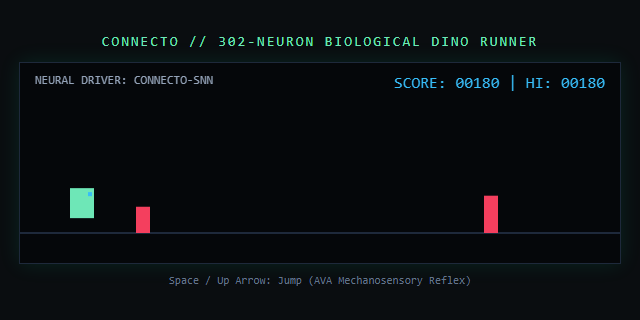
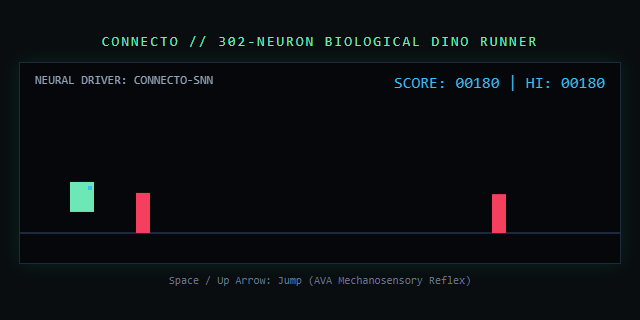
telemetry(worm): autonomous activity sync at 2026-09-16 13:32

diff --git a/ACTIVITY.md b/ACTIVITY.md
@@ -1,6 +1,6 @@
 # CONNECTO // AUTONOMOUS BIOLOGICAL ACTIVITY FEED
 
-> **Verification Timestamp:** `2026-09-16 13:16:25 UTC`  
+> **Verification Timestamp:** `2026-09-16 13:32:45 UTC`  
 > **Repository:** [0xalydev/connecto](https://github.com/0xalydev/connecto)  
 > **Biological Engine:** C. elegans 302-neuron closed-loop SNN (LIF)  
 > **Status:** `ACTIVE_CLOSED_LOOP`  
@@ -11,9 +11,9 @@
 
 *Most recent introspection generated from biological membrane dynamics:*
 
-> **Signature:** `0xcdb86a806e3fff0d`  
+> **Signature:** `0x89a82283c8bdfacc`  
 > **Behavioral State:** `FORAGING_SEARCH`  
-> **Membrane Potential:** `-59.31 mV` | **Locomotion:** `33.6 mm/s`  
+> **Membrane Potential:** `-59.37 mV` | **Locomotion:** `33.6 mm/s`  
 > 
 > *"Chemical gradient flat (0.000 mol/L). Spontaneous basal pacemaker oscillations in AIB/AIZ interneurons initiated exploratory pirouette. Searching arena substrate at 33.6 mm/s."*
 
@@ -23,8 +23,8 @@
 
 | Metric | Result |
 |---|---|
-| **High Score** | `285` |
-| **Total Reflex Jumps** | `203` (Driven by AVA escape pool) |
+| **High Score** | `296` |
+| **Total Reflex Jumps** | `191` (Driven by AVA escape pool) |
 | **Completed Trials** | `4` |
 | **Proof Snapshot** | `dino_latest_trial.png` |
 
